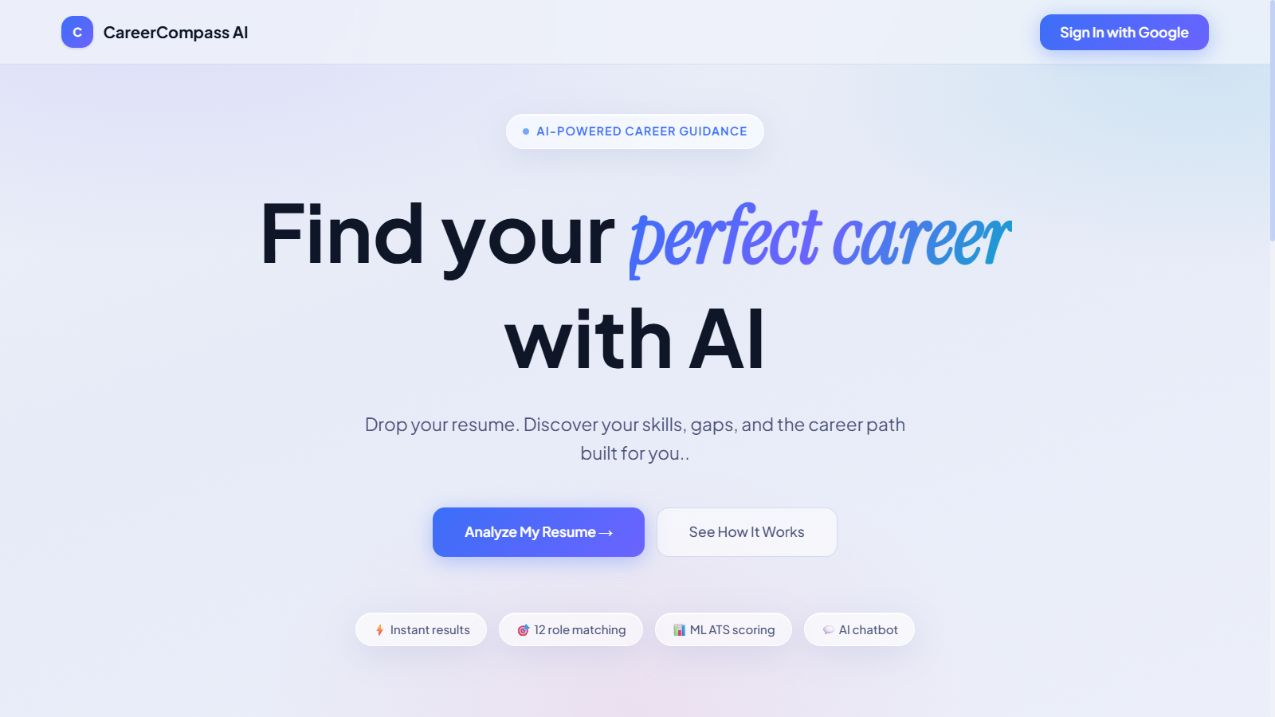
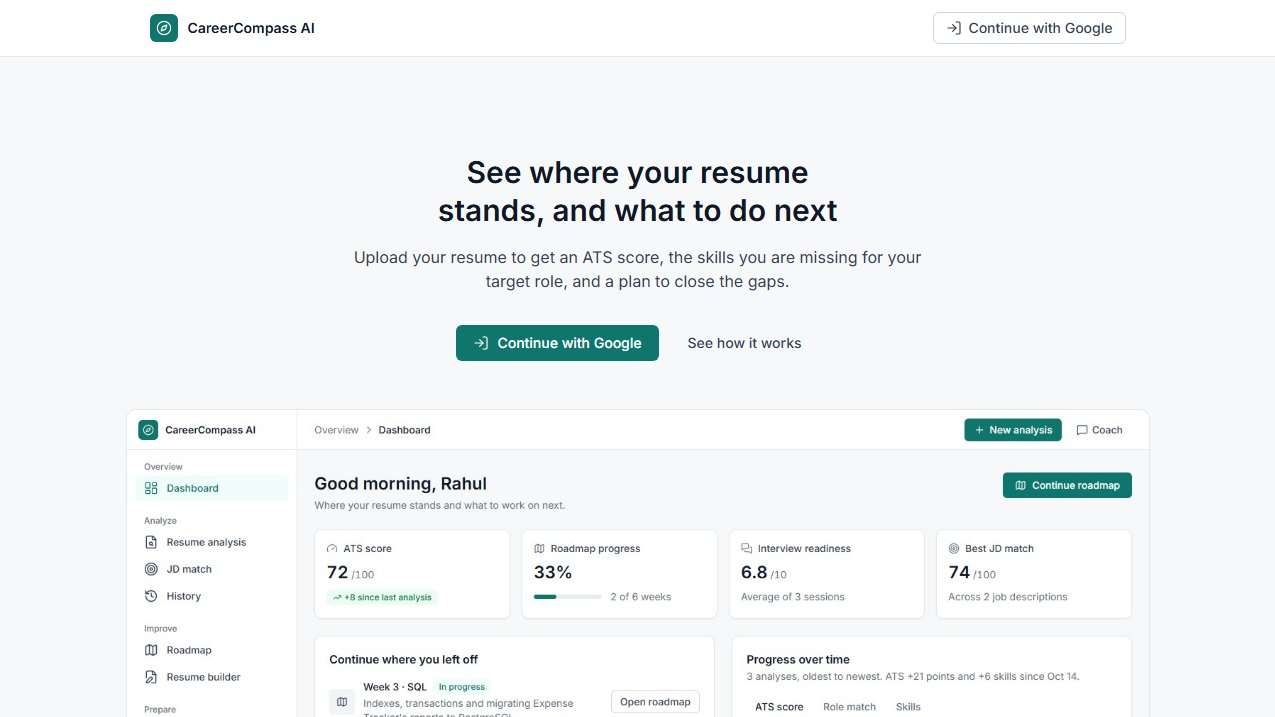
content: refresh CareerCompass details and preview image

diff --git a/src/projects.js b/src/projects.js
@@ -13,36 +13,36 @@ export const projects = [
     deskFrame: '/assets/desk/careercompass.webp',
     category: 'Applied AI · Full stack',
     description:
-      'Career intelligence platform with resume analysis, matching across 12 career profiles, and custom job-description matching. React, Express, and Flask services deployed on Vercel, Render, and Hugging Face Spaces.',
+      'Career platform that analyzes a resume, scores ATS readiness, matches it to 12 career profiles and pasted job descriptions, then turns the skill gaps into a roadmap, a resume builder, and interview practice. React, Express, and Flask services on Vercel, Render, and Hugging Face Spaces.',
     highlights: [
-      'Gemini API career chatbot with conversation history and resume context',
-      'Job-description matching via TF-IDF + skill coverage, with skill gaps and saved history',
-      'Heuristic ATS readiness scoring with GradientBoostingRegressor trained on 600 synthetic samples',
-      'Google OAuth, PDF reports, resume comparison, and progress tracking',
+      'ATS readiness score from a GradientBoostingRegressor trained on 600 synthetic resumes, presented as a coaching heuristic rather than a prediction',
+      'Job-description matching: 40% TF-IDF similarity + 60% skill coverage, with matched, missing, and extra skills',
+      'Week-by-week roadmap, AI resume builder with PDF export, and interview practice with rubric feedback',
+      'Gemini career chatbot, Google OAuth with JWT sessions, PDF reports, resume comparison, and progress tracking',
     ],
-    tags: ['React', 'Node.js', 'Express', 'MongoDB', 'Flask', 'spaCy', 'Scikit-learn', 'Gemini API', 'JWT'],
+    tags: ['React', 'Node.js', 'Express', 'MongoDB', 'Flask', 'spaCy', 'Scikit-learn', 'Gemini API', 'JWT', 'Tailwind CSS'],
     github: 'https://github.com/avimishra25/CareerCompass-AI',
     demo: 'https://career-compass-ai-omega-smoky.vercel.app/',
     story: {
       label: 'INTELLIGENCE, WITH DIRECTION',
       problem: 'A resume lists your experience. It rarely tells you where to go next.',
-      decision: 'Connect resume analysis, career matching, and a context-aware AI assistant in one workflow.',
-      result: 'Explore 12 career profiles, compare job descriptions, and see the skills to work on next.',
+      decision: 'Connect resume analysis, job matching, a roadmap, and AI coaching in one workflow, with guardrails on what the AI can claim.',
+      result: 'Upload a resume, compare it against a job description, and get a week-by-week plan for the skills to work on next.',
     },
     architecture: {
       output: 'Vercel · Render · Hugging Face Spaces',
       layers: [
         {
           track: 'FX', role: 'Integrations', clips: [
-            { name: 'Gemini', detail: 'Career chatbot with conversation history and resume context.', start: 30, end: 49 },
+            { name: 'Gemini', detail: 'Career chatbot, resume-builder bullets, and interview feedback, with outputs validated and retried once.', start: 30, end: 49 },
             { name: 'Google OAuth', detail: 'Sign-in with Google, backed by JWT sessions.', start: 52, end: 71 },
-            { name: 'PDF reports', detail: 'Downloadable reports of a resume analysis.', start: 74, end: 93 },
+            { name: 'PDF reports', detail: 'Downloadable analysis reports and A4 resume export.', start: 74, end: 93 },
           ],
         },
         { track: 'V2', role: 'API', clips: [{ name: 'Express', detail: 'Accounts, JWT auth, and saved job-description history, deployed on Render.', start: 6, end: 100 }] },
-        { track: 'V1', role: 'UI', clips: [{ name: 'React', detail: 'Resume upload, career matches, resume comparison, and progress tracking, deployed on Vercel.', start: 0, end: 100 }] },
-        { track: 'A1', role: 'ML', clips: [{ name: 'Flask', detail: 'spaCy resume analysis, TF-IDF job matching with skill gaps, and ATS readiness scoring, on Hugging Face Spaces.', start: 16, end: 86 }] },
-        { track: 'A2', role: 'Data', clips: [{ name: 'MongoDB', detail: 'Users, saved matching history, and progress over time.', start: 6, end: 100 }] },
+        { track: 'V1', role: 'UI', clips: [{ name: 'React', detail: 'Resume upload, career matches, JD matching, roadmap, resume builder, interview practice, and progress dashboard, deployed on Vercel.', start: 0, end: 100 }] },
+        { track: 'A1', role: 'ML', clips: [{ name: 'Flask', detail: 'spaCy skill extraction, TF-IDF job matching, ATS scoring, and all Gemini calls, reachable only from the backend, on Hugging Face Spaces.', start: 16, end: 86 }] },
+        { track: 'A2', role: 'Data', clips: [{ name: 'MongoDB', detail: 'Users, saved analyses and job-description matches, roadmap progress, and resume drafts.', start: 6, end: 100 }] },
       ],
     },
   },

diff --git a/README.md b/README.md
@@ -154,7 +154,7 @@ Desktop and phone automated accessibility scans passed during the latest impleme
 
 ## Featured projects
 
-- **[CareerCompass AI](https://github.com/avimishra25/CareerCompass-AI):** React, Express, and Flask services with resume analysis, heuristic ATS readiness scoring, job-description matching and skill gaps, Gemini career chat, PDF reports, and progress tracking.
+- **[CareerCompass AI](https://github.com/avimishra25/CareerCompass-AI):** React, Express, and Flask services with resume analysis, heuristic ATS readiness scoring, job-description matching, roadmaps, an AI resume builder, interview practice, Gemini career chat, and progress tracking.
 - **[DripStore](https://github.com/avimishra25/dripstore):** Sneaker and streetwear e-commerce with payment recovery, signed Razorpay webhooks, transactional inventory updates, per-size stock, and role-based administration. The [live Render demo](https://dripstore-demo.onrender.com/) runs as one Docker service with credential-free customer/admin access and simulated payments; no real money is charged.
 
 ## Contact
